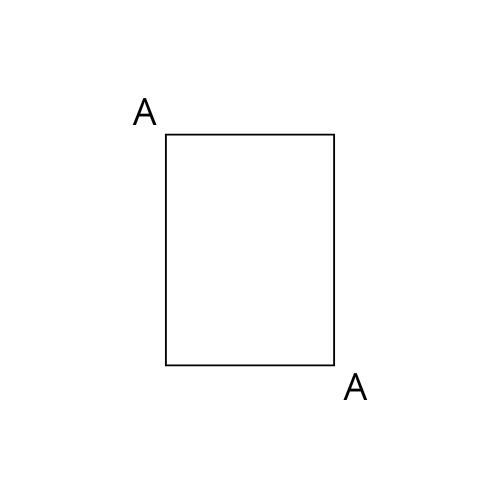
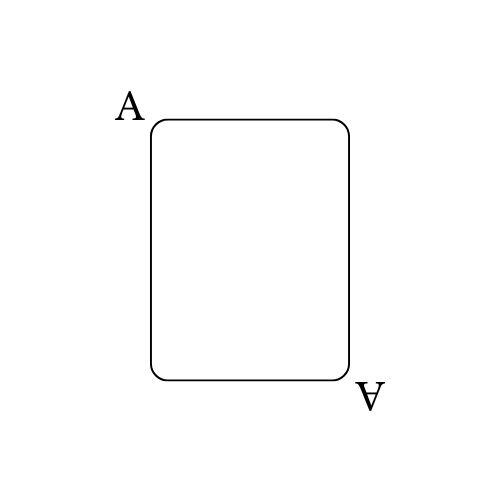
First version skills sections and upload img for cards

Changed region(s): [[0.24, 0.18, 0.78, 0.84]]

diff --git a/index.html b/index.html
@@ -105,18 +105,20 @@
     </section>
     
     <section class="habilidades">
-        <h2>Habilidades y Competencias</h2>
+        <h3>HABILIDADES Y COMPETENCIAS</h3>
+        <p>Aquí te muestro mis ases bajo la manga</p>
         <div class="cartas-container">
             <div class="carta" id="tecnicas">
                 <div class="carta-inner">
                     <div class="carta-front"></div>
                     <div class="carta-back">
-                        <h3>Habilidades Técnicas</h3>
-                        <ul>
-                            <li>✔ Desarrollo Web</li>
-                            <li>✔ Programación en JavaScript</li>
-                            <li>✔ Administración de Sistemas</li>
-                        </ul>
+                        <div class="skills-list">
+                            <ul>
+                                <li>Desarrollo Web</li>
+                                <li>Programación en JavaScript</li>
+                                <li>Administración de Sistemas</li>
+                            </ul>
+                        </div>    
                     </div>
                 </div>
             </div>
@@ -124,12 +126,13 @@
                 <div class="carta-inner">
                     <div class="carta-front"></div>
                     <div class="carta-back">
-                        <h3>Ingeniería</h3>
-                        <ul>
-                            <li>✔ Diseño de Circuitos</li>
-                            <li>✔ Análisis de Datos</li>
-                            <li>✔ Gestión de Proyectos</li>
-                        </ul>
+                        <div class="skills-list">
+                            <ul>
+                                <li>Diseño de Circuitos</li>
+                                <li>Análisis de Datos</li>
+                                <li>Gestión de Proyectos</li>
+                            </ul>
+                        </div>
                     </div>
                 </div>
             </div>
@@ -137,12 +140,13 @@
                 <div class="carta-inner">
                     <div class="carta-front"></div>
                     <div class="carta-back">
-                        <h3>Ventas y Atención al Cliente</h3>
-                        <ul>
-                            <li>✔ Técnicas de Venta</li>
-                            <li>✔ Comunicación Efectiva</li>
-                            <li>✔ Trabajo en Equipo</li>
-                        </ul>
+                        <div class="skills-list">
+                            <ul>
+                                <li>Técnicas de Venta</li>
+                                <li>Comunicación Efectiva</li>
+                                <li>Trabajo en Equipo</li>
+                            </ul>
+                        </div>
                     </div>
                 </div>
             </div>

diff --git a/style.css b/style.css
@@ -349,12 +349,13 @@ Habilidades
 
 .habilidades {
     margin-top: 50px;
+    text-align: center;
 }
 
 .carta {
     opacity: 0;
-    width: 180px;
-    height: 250px;
+    width: 200px;
+    height: 270px;
     position: absolute;
     transform: translateY(-50px) scale(0.8);
     transition: transform 0.5s ease-in-out, opacity 0.5s ease-in-out;
@@ -387,7 +388,9 @@ Habilidades
 }
 
 .carta-back {
-    background: white;
+    background-image: url('https://github.com/osamasgit/portafolio-web/raw/skills/Media/A.png');
+    background-size: 180%;
+    background-position: center;
     transform: rotateY(180deg);
     display: flex;
     flex-direction: column;
@@ -407,8 +410,9 @@ Habilidades
 }
 
 .carta-back li {
-    font-size: 16px;
-    margin: 5px 0;
+    font-size: 12px;
+    margin: 5px 25px;
+    text-align: center;
 }
 
 /* Animación de reparto */
